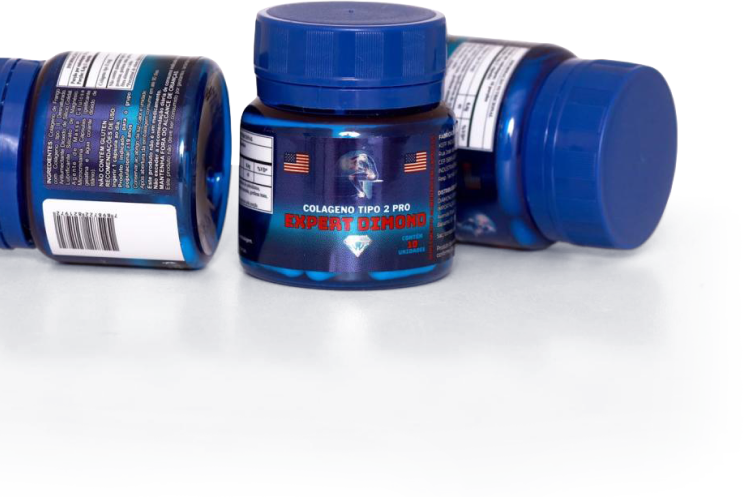
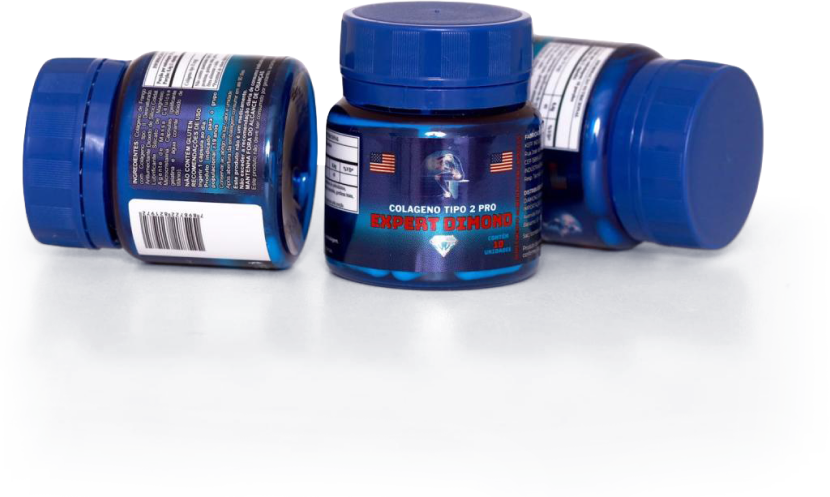
Product hero image fix + styling

diff --git a/index.html b/index.html
@@ -9,9 +9,9 @@
     <meta name="description" content="Joe's Pizza serves the best pizza in town, made with fresh ingredients and baked to perfection. Come try our delicious pizza today!">
     <link rel="stylesheet" href="src/styles.css">
 </head>
-<body>
+<body data-speed="300">
     <!-- Start page wrapper -->
-    <div class="page-wrapper">
+    <div id="s-top" class="page-wrapper">
         <!-- Start main wrapper -->
         <main class="main-wrapper">
             <!-- Start home banner -->
@@ -20,19 +20,20 @@
             <header class="navbar">
                 <div class="main-container">
                     <div class="navbar_comp">
-                        <a href="#" class="navbar_logo-wrap"><img src="/assets/images/brand-logo-desktop.png" alt="Diamond Expert" class="navbar_brand-logo"></a>
+                        <a href="#s-top" class="navbar_logo-wrap"><img src="/assets/images/brand-logo-desktop.png" alt="Diamond Expert" class="navbar_brand-logo"></a>
                         <div class="navbar_menu-wrap">
-                            <a href="#" class="navbar_menu-link">Home</a>
-                            <a href="#" class="navbar_menu-link">Sobre</a>
-                            <a href="#" class="navbar_menu-link">História</a>
+                            <a href="#s-about" class="navbar_menu-link">Sobre</a>
+                            <a href="#s-history" class="navbar_menu-link">História</a>
+                            <a href="#" class="navbar_menu-link">Dúvidas frequentes</a>
                             <a href="#" class="main-btn is--secondary">Loja</a>
                         </div>
                     </div>
                 </div>
             </header>
             <!-- Start hero section -->
-            <section class="section is--hero">
+            <section id="s-hero" class="section is--hero">
                 <div class="main-container">
+                    <!-- Start hero comp -->
                     <div class="hero_comp">
                         <div class="hero_heading-wrap">
                             <h1 class="heading-style-large">Mude de vida com a <span class="text-span-underline">Diamond Expert</span> Brasil</h1>
@@ -41,14 +42,14 @@
                             <p class="text-size-normal">Ofereça o melhor para a saúde das articulações. Seja um revendedor da Diamond Expert e ajude seus clientes a transformarem suas vidas.</p>
                             <a href="#" class="main-btn">Seja um representante</a>
                         </div>
-                        
+                        <img src="/assets/images/produto-hero.png" alt="Tres potes de 60 cápsulas da Dimond Expert" class="hero_product-image">
                     </div>
+                    <!-- End hero comp -->
                 </div>
-                <img src="/assets/images/produto-hero.png" alt="Tres potes de 60 cápsulas da Dimond Expert" class="hero_product-image">
             </section>
             <!-- End hero section -->
             <!-- Start about section -->
-            <section class="section">
+            <section id="s-about" class="section">
                 <div class="main-container">
                     <div class="about_comp">
                         <div class="about_content-left-wrap">
@@ -66,12 +67,31 @@
                 </div>
             </section>
             <!-- End about section -->
+            <!-- Start review section -->
+            <section id="s-review" class="section is--review">
+                <div class="main-container">
+                    <div class="review_comp">
+                        <p class="text-overline">nossos clientes</p>
+                        <p class="text-size-large">“Quero deixar registrado o meu agradecimento à Diamond Expert pelo excelente produto de colágeno tipo 2 em cápsulas. Desde que comecei a utilizar, minhas dores articulares diminuíram consideravelmente e sinto uma melhoria significativa na minha qualidade de vida.”</p>
+                        <div class="review_client-info-wrap">
+                            <img src="/assets/images/client-carla-picture.jpg" alt="Foto enviada pela nossa querida Clara Oliviera" class="review_client-image">
+                            <p>Carla Oliveira</p>
+                            <p class="text-size-small">25 anos, casada</p>
+                        </div>
+                    </div>
+                </div>
+            </section>
+            <!-- End review section -->
             <!-- Start history section -->
-            <section class="section">
+            <section id="s-history" class="section is--dark">
                 <div class="main-container">
                     <div class="history_comp">
-                        <h2 class="heading-style-medium">História section</h2>
-                        <p class="text-size-normal">Ofereça o melhor para a saúde das articulações. Seja um revendedor da Diamond Expert e ajude seus clientes a transformarem suas vidas.</p>
+                        <did class="history_content-right-wrap">
+                            <h2 class="heading-style-medium">Olá, sou Lucas Lobianco</h2>
+                            <p class="text-size-normal">Com o sangue empreendedor, comecei minha jornada ajudando pessoas e vendo resultados de perto. Na Diamond Expert, serei seu parceiro durante o processo de pedidos em lote.</p>
+                            <a href="#" class="main-btn">Seja um representante</a>
+                        </did>
+                        <div class="history_image-wrap"><img src="./assets/images/woman-training-gym.jpg" alt="Mulheres treinando na academia" class="content_image"></div>
                     </div>
                 </div>
             </section>

diff --git a/src/styles.css b/src/styles.css
@@ -14,6 +14,7 @@
 
 html {
   font-family: sans-serif;
+  scroll-behavior: smooth;
 }
 
 *,
@@ -41,13 +42,22 @@ a, u {
 
 /* Classes principais */
 
+.navbar {
+  position: sticky;
+  top: 0;
+  z-index: 99999;
+}
+
 .section, .navbar {
   padding: var(--section-padding-small);
+}
+
+.section {
   position: relative;
 }
 
 .navbar {
-    padding: 2em 2em;
+    padding: 1em 2em;
 }
 
 .section.is--hero, .navbar {
@@ -62,6 +72,18 @@ a, u {
   background-repeat: no-repeat, repeat, no-repeat;
 }
 
+.section.is--review {
+  background-image: url(/assets/section-diagonal-divider-dark.svg);
+  background-position: 50% 100%, 0px 0px, 0px 0px;
+  background-size: 100vw, auto, cover;
+  background-repeat: no-repeat, repeat, no-repeat;
+}
+
+.section.is--dark {
+  background-color: var(--bg-main-color);
+  color: var(--text-color-light);
+}
+
 .main-container {
   width: 90vw;
   max-width: 1140px;
@@ -69,6 +91,7 @@ a, u {
 }
 
 .hero_comp {
+  position: relative;
   display: flex;
   flex-direction: column;
   align-items: end;
@@ -124,16 +147,22 @@ a, u {
 .hero_product-image {
     position: absolute;
     left: 0;
-    bottom: 0;
-    margin-left: -2em;
-    margin-bottom: -20%;
+    top: auto;
+    transform: translateY(17em) translateX(-8em);
     pointer-events: none;
+    max-width: 85%;
 }
 
 .navbar_comp {
     display: flex;
     flex-direction: row;
     justify-content: space-between;
+    align-items: center;
+}
+
+.navbar_logo-wrap {
+  display: flex;
+  align-items: center;
 }
 
 .navbar_menu-wrap {
@@ -154,6 +183,19 @@ a, u {
   line-height: 1.3;
 }
 
+.text-size-large {
+  font-size: 1.3em;
+  font-weight: 400;
+}
+
+.text-size-normal {
+  
+}
+
+.text-size-small {
+  font-size: 0.8em;
+}
+
 .text-overline {
   font-size: 0.6em;
   font-family: "Ranade";
@@ -161,11 +203,15 @@ a, u {
   letter-spacing: 0.65em;
 }
 
-.about_comp {
+.about_comp, .history_comp {
   display: flex;
   flex-direction: row;
   align-items: center;
   column-gap: var(--section-column-gap);
+}
+
+.history_comp {
+  flex-direction: row-reverse;
 }
 
 
@@ -182,12 +228,35 @@ a, u {
   margin-top: 2em;
 }
 
-.about_advantages-wrap u {
+.about_advantages-wrap  u {
   padding-left: 39px;
   background-image: url("/assets/icons/checkmark-icon.svg");
   background-repeat: no-repeat;
   background-position: 0% 50%, 0px 0px, 0px 0px;
   background-size: 24px, auto, cover;
+}
+
+.home_banner-wrap  u {
+  padding-left: 39px;
+  background-image: url("/assets/icons/checkmark-icon.svg");
+  background-repeat: no-repeat;
+  background-position: 0% 50%, 0px 0px, 0px 0px;
+  background-size: 24px, auto, cover;
+}
+
+.home_banner-wrap  u {
+  padding-left: 39px;
+  background-image: url("/assets/icons/checkmark-icon-white.svg");
+  background-repeat: no-repeat;
+  background-position: 0% 50%, 0px 0px, 0px 0px;
+  background-size: 24px, auto, cover;
+}
+
+.home_banner-wrap {
+  display: flex;
+  flex-direction: column;
+  align-items: center;
+  justify-content: center;
 }
 
 .text-span-underline {
@@ -202,7 +271,44 @@ a, u {
 .home_banner-wrap {
   background-color: var(--secondary-accent-color);
   color: var(--text-color-light);
-  height: 25px;
+  padding: 5px 0px;
+  font-size: 16px;
+}
+
+.home_banner-wrap {
+  background-color: var(--secondary-accent-color);
+  color: var(--text-color-light);
+  padding: 5px 0px;
+  font-size: 16px;
+}
+
+.review_comp {
+  display: flex;
+  flex-direction: column;
+  text-align: center;
+  align-items: center;
+  row-gap: 2em;
+}
+
+.review_comp {
+  display: flex;
+  flex-direction: column;
+  text-align: center;
+  align-items: center;
+  row-gap: 2em;
+}
+
+.review_client-image {
+  border-radius: 99em;
+  pointer-events: none;
+}
+
+.history_content-right-wrap {
+  display: flex;
+  flex-direction: column;
+  justify-content: center;
+  align-items: start;
+  row-gap: 2em;
 }
 
 /* Tablet brekpoint */
